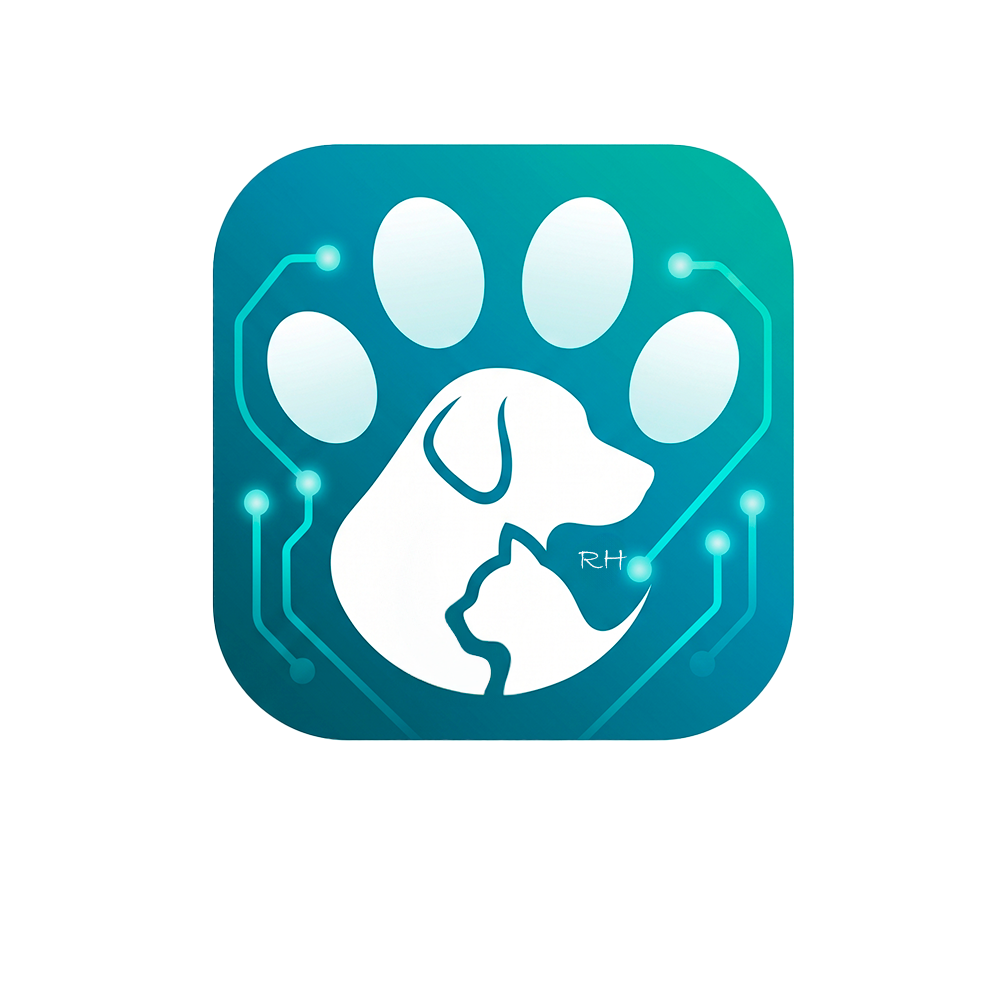
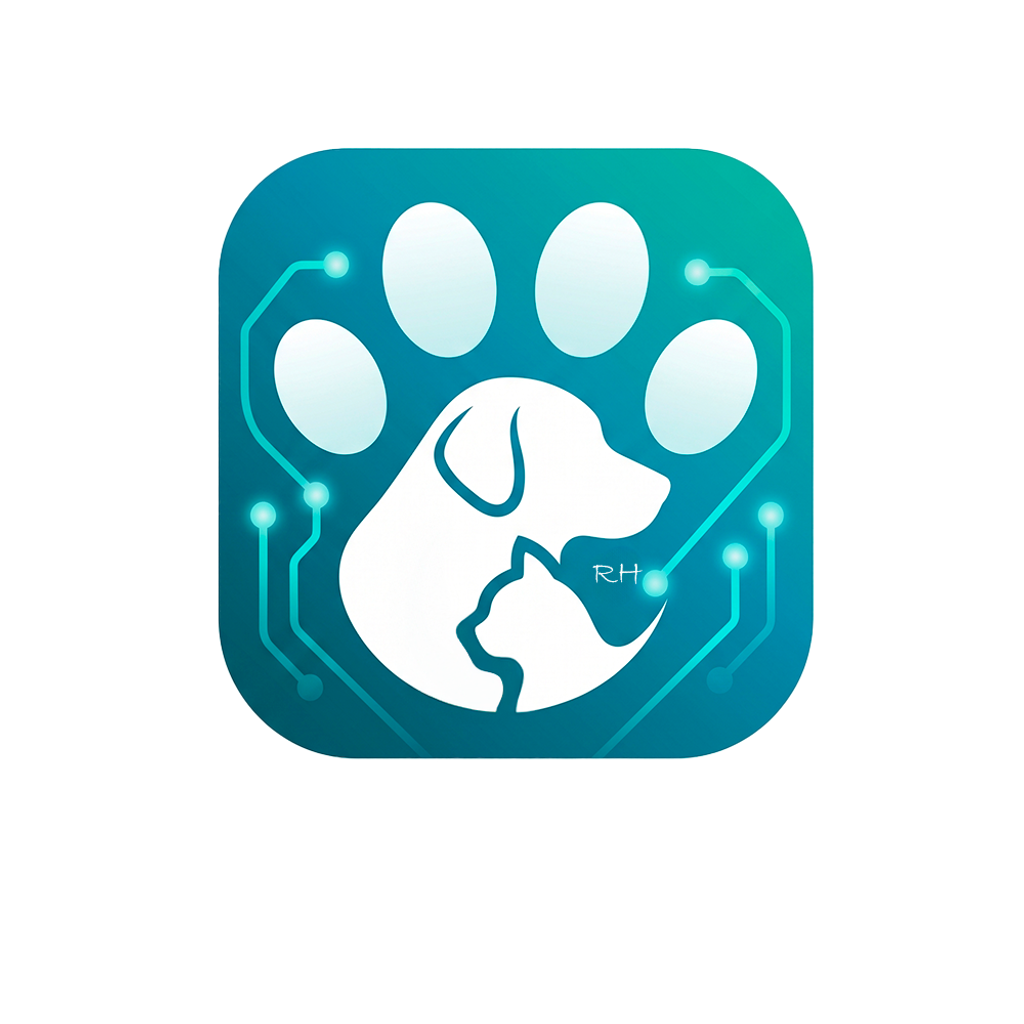
Apunta el APK a bitflow y pone el icono oficial de Red Huellitas.
URL de API en raíz del sitio; adaptive icons regenerados desde el logo RH.

diff --git a/app-movil/src/api/client.ts b/app-movil/src/api/client.ts
@@ -21,7 +21,8 @@ function getApiUrl(): string {
 
   const fromEnv = process.env.EXPO_PUBLIC_API_URL?.replace(/\/$/, '');
   if (fromEnv) {
-    return fromEnv;
+    // Se puede poner la raíz del sitio; el backend PHP vive en /inc.
+    return fromEnv.endsWith('/inc') ? fromEnv : `${fromEnv}/inc`;
   }
   return 'http://localhost/Red%20Huellitas/inc';
 }
